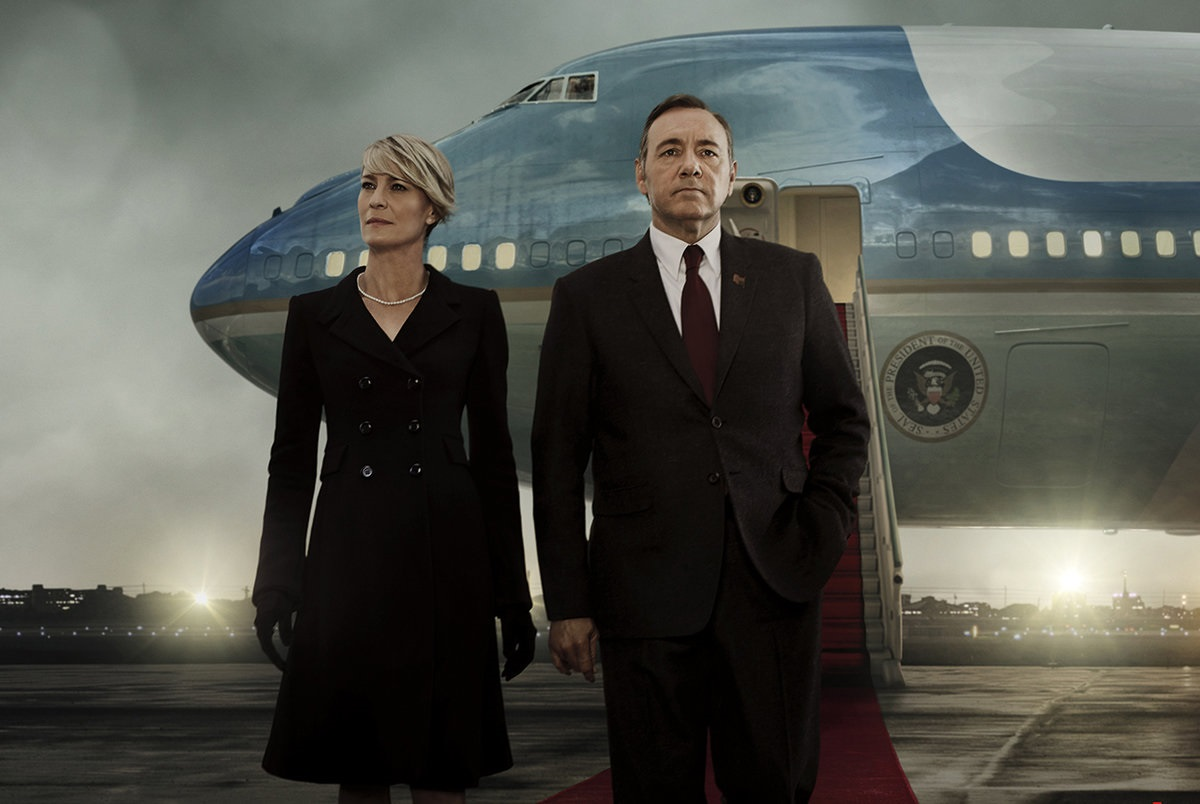
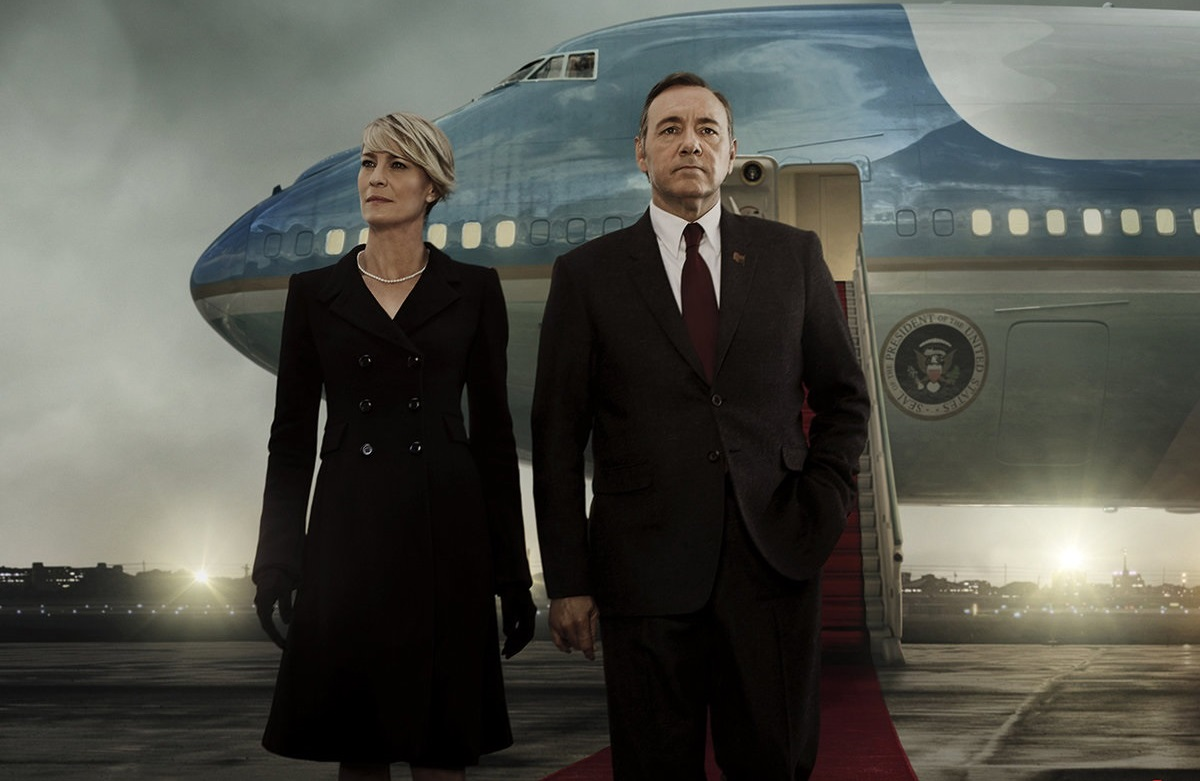
Atualizações css

diff --git a/resources/css/style.css b/resources/css/style.css
@@ -2,6 +2,7 @@
     --vermelha: #e50914;
     --preta: #141414;
     --branca: #ffffff;
+    --pretaGrad:rgba(0, 0, 0, .50);
 }
 
 * {
@@ -42,10 +43,38 @@ header nav a:hover {
 
 .filme-principal {
     font-size: 16px;
-    background: url('../img/house.jpg');
-    background-repeat: no-repeat;
-   background-size: 100%;
-    height: 100%;
-    
+    background: linear-gradient(var(--pretaGrad), var(--pretaGrad)100% ), url('../img/house.jpg');
+    background-size: cover;
+    height: 35rem;
+    display: flex;
+    flex-direction: column;
+    align-items: flex-start;
+    justify-content: center;    
 }
-/**/
+
+.filme-principal .descricao {
+    margin-top: 1.5rem;
+    margin-bottom: 90px;
+}
+
+.filme-principal .titulo {
+    margin-top: 9rem;
+    font-size: 3.9rem;
+    font-family: 'Trebuchet MS', Arial, sans-serif;
+}
+
+.botao {
+    background-color: var(--pretaGrad);
+    border: none;
+    color: var(--branca);
+    padding: 1.2rem 3rem;
+    margin-right: 1.5rem;
+    font-size: 12px;
+    cursor: pointer;
+    transition: .3s ease all;
+}
+
+.botao:hover {
+    background-color: var(--branca);
+    color: var(--preta);
+}

diff --git a/index.html b/index.html
@@ -20,11 +20,19 @@
     <main>
         <div class="filme-principal">
             <div class="container">
-                <h3>HOUSE OF CARDS</h3>
+                <h3 class="titulo">HOUSE OF CARDS</h3>
                 <p class="descricao">
-                    Nada pode impedir o politico sem escrupulos Frank Underwood de conquistar Washington.
+                    Nada pode impedir o politico sem escrupulos Frank Underwood de conquistar Washington. Assistea agora a nova temporada de House of Cards que está imperdível.
                 </p>
-            </div>
+                <div class="botoes">
+                    <button role="button" class="botao">
+                        ASSISTIR AGORA
+                    </button>
+                    <button role="button" class="botao">
+                        MAIS INFORMAÇÕES
+                    </button>
+                </div>
+            </div>            
         </div>
     </main>
     
